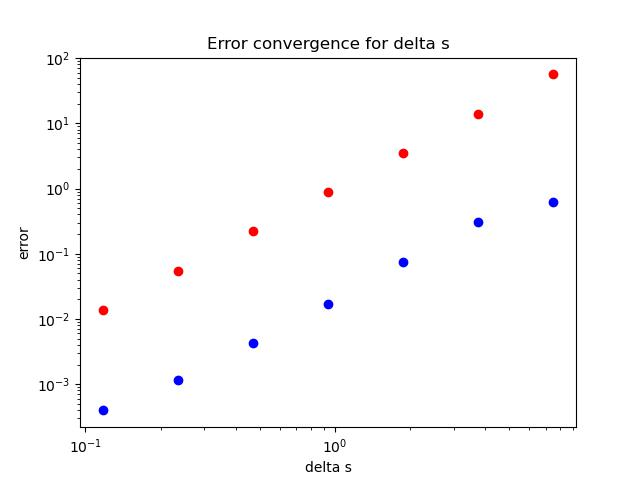
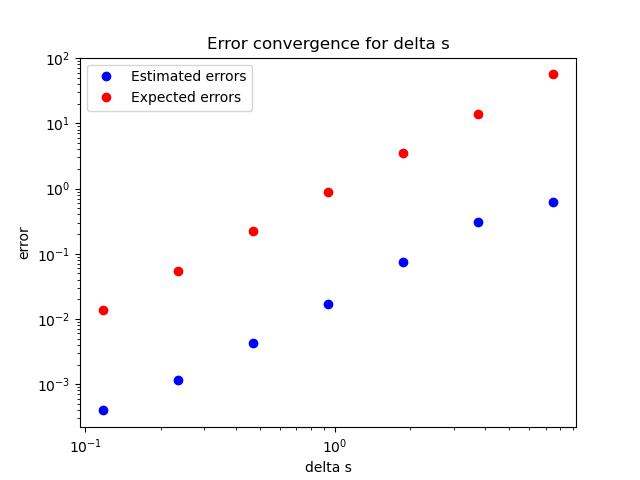
all graphs done

Changed region(s): [[0.1562, 0.125, 0.4062, 0.2188]]

diff --git a/Implicit method.py b/Implicit method.py
@@ -84,8 +84,8 @@ def delta_t_test():
     plt.xlabel('delta t')
     plt.ylabel('error')
     plt.title('Error convergence for delta t')
-    plt.savefig('Error convergence for delta t.jpg')
     plt.legend()
+    plt.savefig('Error convergence for delta t.jpg')
     plt.show()
     
 def delta_s_test():
@@ -105,8 +105,24 @@ def delta_s_test():
     plt.xlabel('delta s')
     plt.ylabel('error')
     plt.title('Error convergence for delta s')
-    plt.savefig('Error convergence for delta s.jpg')
     plt.legend()
+    plt.savefig('Error convergence for delta s.jpg')
+    plt.show()
+
+def gamma_test():
+    gamma_array = np.linspace(0, 1, 11)
+    V_array = np.zeros(11)
+    
+    for index, gamma in enumerate(gamma_array):
+        print(callfunc(gamma = gamma, N = 400, M = 400))
+        V_array[index] = callfunc(gamma = gamma, N = 400, M = 400)
+        
+    plt.plot(gamma_array, V_array, 'bo', label = 'Values')
+    plt.xlabel('gamma')
+    plt.ylabel('value')
+    plt.title('Values for different gammas')
+    plt.legend()
+    plt.savefig('Values for different gammas.jpg')
     plt.show()
 
 def main():
